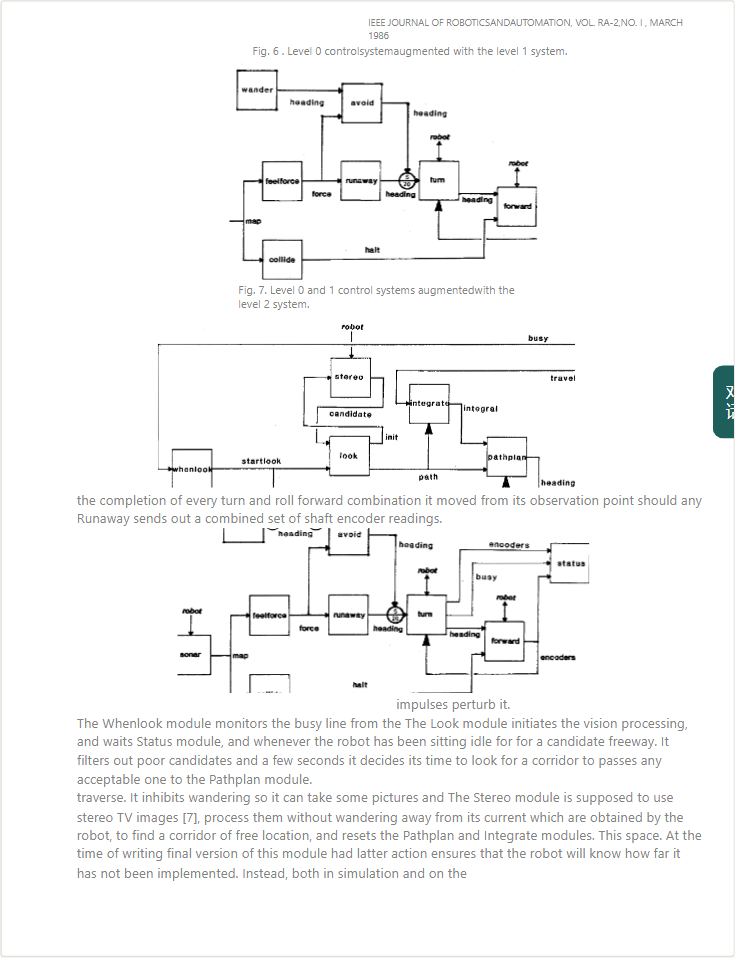
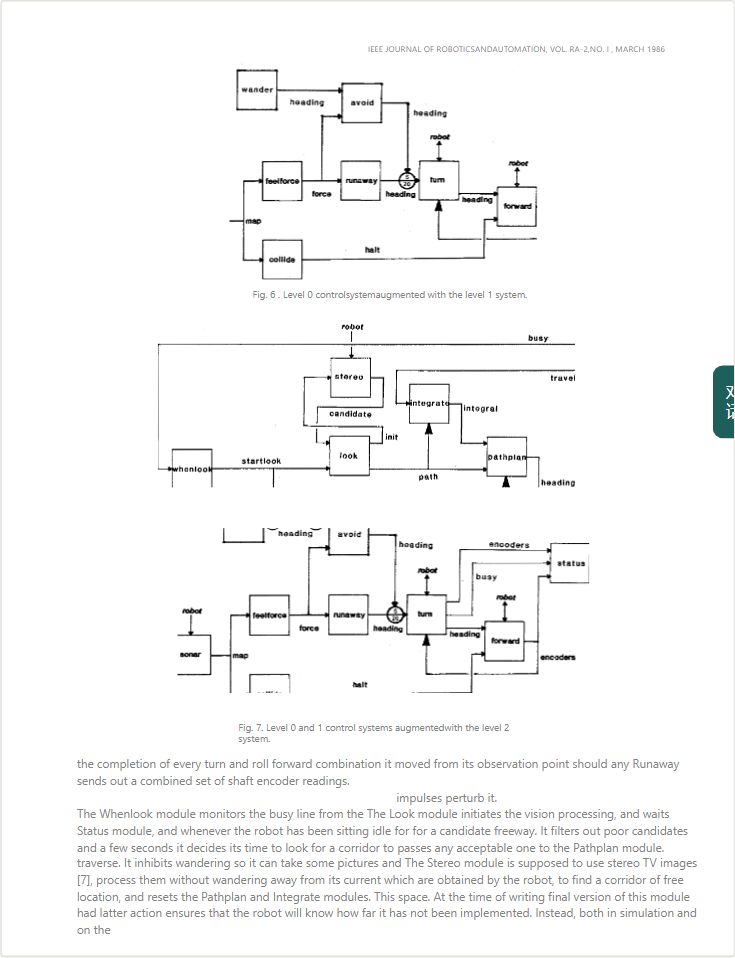
排版：保留原位排布 + 占位感知下推（图重页不再错位，10 页 0 重叠）

diff --git a/03-code/web/assets/page-layout.js b/03-code/web/assets/page-layout.js
@@ -646,7 +646,7 @@ export class SheetPage {
         if (wide) {
           // 整页宽的块尽量留在原位；但别为了"还原原位"把纸撑高——顶到页底就往上收
           const cap = Math.max(marginY, pageBottom - wide.height);
-          const y = bumpAny(cursor, wide);
+          const y = bumpAny(Math.max(cursor, Math.min(wide.top0, cap)), wide);
           tops.set(wide, y);
           placed.push(rectOf(wide, y));
           cursor = Math.max(cursor, y + wide.height);
@@ -658,7 +658,7 @@ export class SheetPage {
           let prev = null;
           for (const rec of list) {
             const gap = prev == null ? 0 : Math.max(1.5, (rec.heading ? 1.05 : 0.42) * rec.fs);
-            const base = prev == null ? cursor : prev + gap;
+            const base = prev == null ? Math.max(cursor, rec.top0) : prev + gap;
             const y = bumpAny(base, rec);
             tops.set(rec, y);
             placed.push(rectOf(rec, y));
